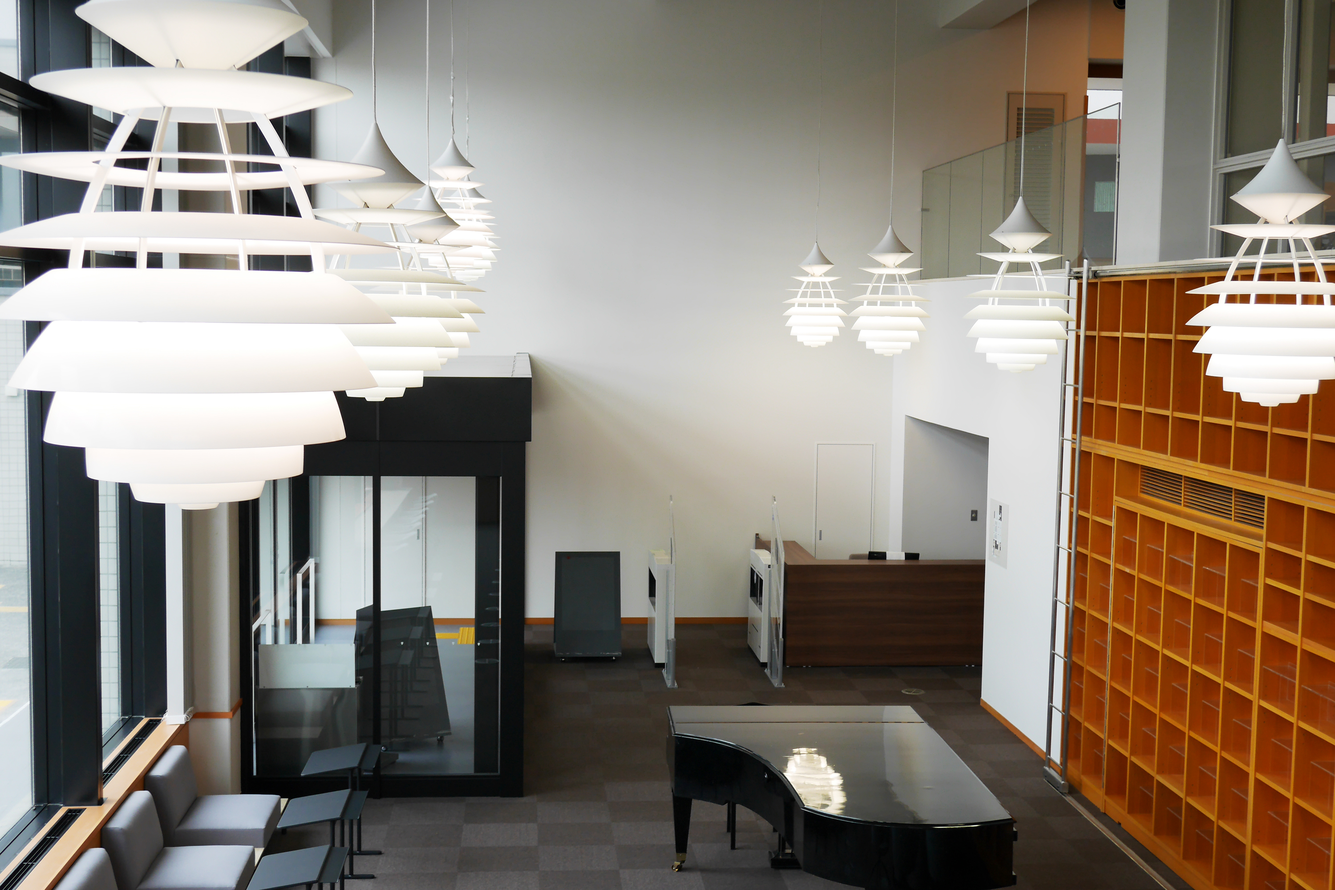
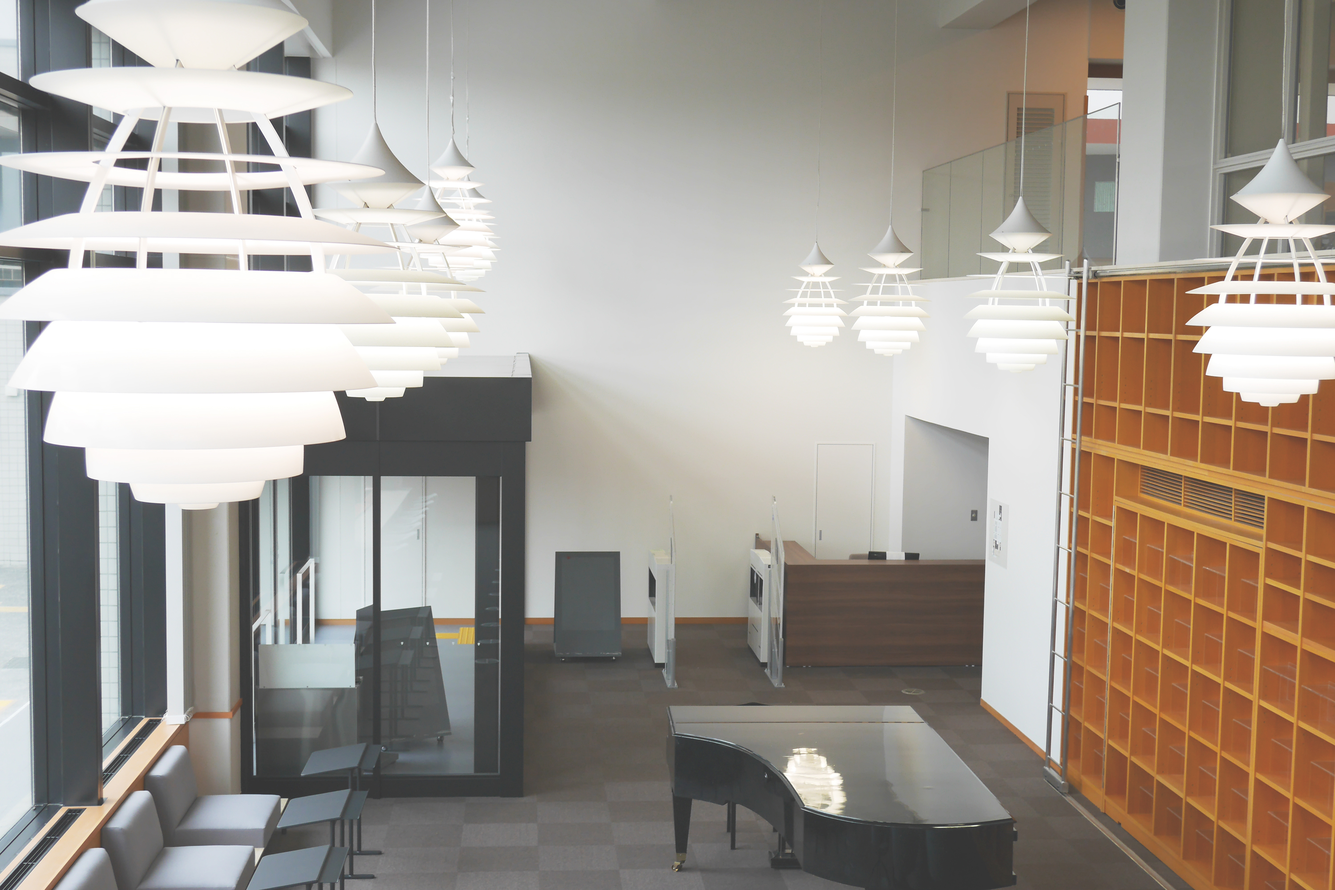
メインビジュアルのロゴが見やすいように修正

diff --git a/pages/index.vue b/pages/index.vue
@@ -7,7 +7,6 @@
         :src="item.src"
         reverse-transition="fade-transition"
         transition="fade-transition"
-        class="mein-visual"
       >
         <v-row class="fill-height" align="center" justify="center">
           <img src="@/assets/image/site-logo.png" width="403" height="130" />
@@ -38,10 +37,10 @@ export default {
           src: require('@/assets/image/main-visual/main-visual-04.jpg'),
         },
         {
-          src: require('@/assets/image/main-visual/main-visual-05.jpg'),
+          src: require('@/assets/image/main-visual/main-visual-06.jpg'),
         },
         {
-          src: require('@/assets/image/main-visual/main-visual-06.jpg'),
+          src: require('@/assets/image/main-visual/main-visual-05.jpg'),
         },
         {
           src: require('@/assets/image/main-visual/main-visual-07.jpg'),
@@ -54,9 +53,3 @@ export default {
   },
 }
 </script>
-
-<style scoped>
-.mein-visual {
-  filter: brightness(110%) grayscale(10%);
-}
-</style>
